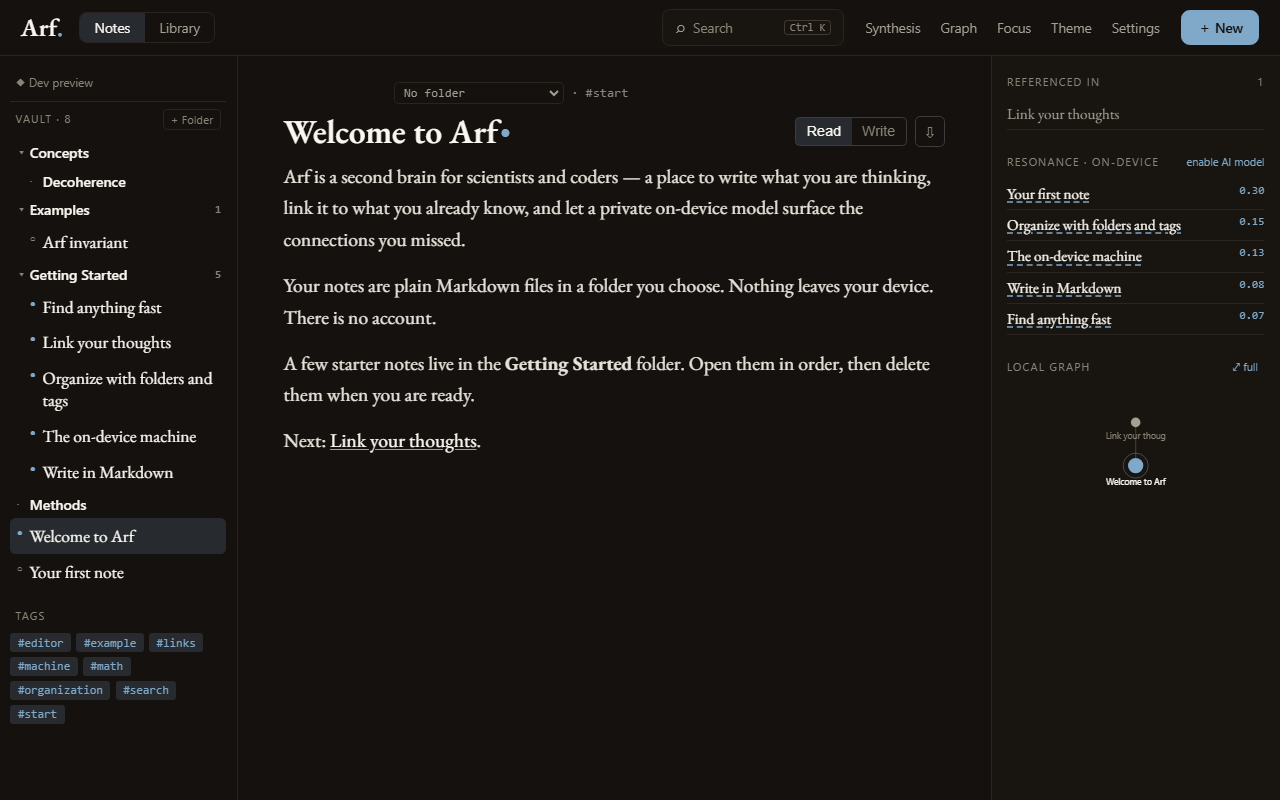
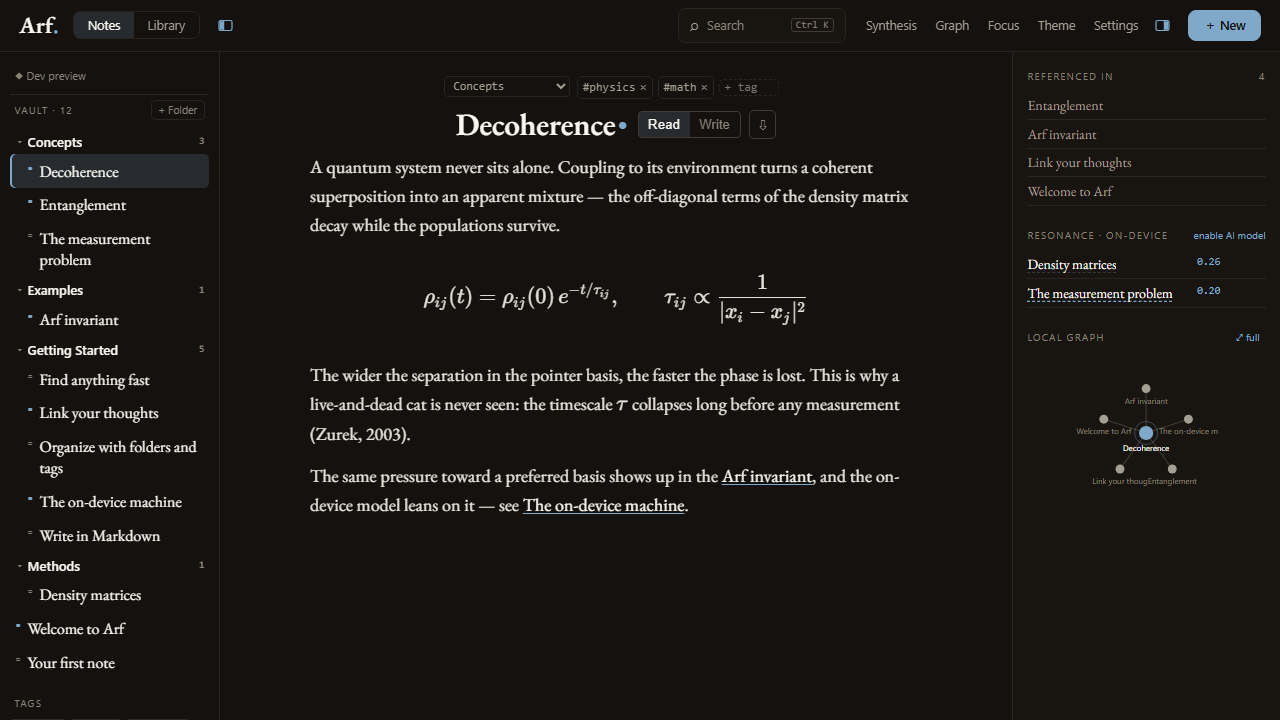
Release 1.8.0: resizable side panels, PDF autofit, panel toggles
- Side panels resize far wider: the fixed 460/480px caps are replaced by a
  window-relative limit, so a panel grows until the note column reaches a
  readable minimum and a PDF or reference can take most of the window. The
  rendered widths are clamped to the live window, so a width saved on a larger
  screen — or grown while the other panel was hidden — can never collapse the
  note column when the window shrinks or the panel is revealed.
- A PDF in the reader fits the panel width and re-fits as the panel is dragged
  (a debounced ResizeObserver; the scrollbar gutter is reserved so the fit can
  not self-trigger). Fit-width is the default; a manual zoom pins the scale
  until Fit is pressed, and a newly opened PDF starts fit-width.
- Show or hide either side panel from a top-bar button; the choice persists,
  and opening a document in the reader reveals the right panel on its own. The
  toggles are inert where they would have no visible effect (focus mode, narrow
  windows).
- Refresh the README hero screenshot for the new header, showing typeset math,
  wikilinks, a citation, backlinks, resonance, and the local graph.
- Add a unit test for the fit-width computation.

diff --git a/src/App.svelte b/src/App.svelte
@@ -19,7 +19,7 @@
 
   const IS_MAC = /Mac|iPhone|iPad|iPod/.test((navigator.platform || '') + ' ' + (navigator.userAgent || ''));
   const MOD = IS_MAC ? '⌘' : 'Ctrl';
-  const APP_VERSION = '1.7.0';   // keep in sync with package.json / tauri.conf.json / Cargo.toml
+  const APP_VERSION = '1.8.0';   // keep in sync with package.json / tauri.conf.json / Cargo.toml
 
   let notes = $state(loadNotes());
   let refs = $state(loadRefs());        // shared reference library (also used by [@citekey] citations)
@@ -56,6 +56,9 @@
   let reconnected = false;
   let leftW = $state(loadNum('arf-leftw', 220));   // resizable sidebar widths
   let rightW = $state(loadNum('arf-rightw', 268));
+  let leftHidden = $state(loadBool('arf-lefthidden', false));   // sidebars can be collapsed out of the way
+  let rightHidden = $state(loadBool('arf-righthidden', false));
+  let winW = $state(typeof window !== 'undefined' ? window.innerWidth : 1280);   // live viewport width (bound below)
   let dragging = null;             // 'l' | 'r' while resizing
   let settingsOpen = $state(false);
   let zoom = $state(loadNum('arf-zoom', 108)); // UI scale (%), a touch above 100 by default
@@ -659,6 +662,16 @@
   // embedded raster. Sits in the top-right corner of the page; nothing else is added to header/footer.
   const ARF_LOGO_SVG = '<svg xmlns="http://www.w3.org/2000/svg" viewBox="0 0 46 40" role="img" aria-label="Arf"><text x="0" y="33" font-family="Georgia,\'Times New Roman\',serif" font-size="40" font-weight="700" fill="#1a1a1a">A</text><circle cx="37" cy="30" r="4.6" fill="#2c4a6e"/></svg>';
   const ARF_LOGO_HTML = '<div class="arf-logo" aria-hidden="true">' + ARF_LOGO_SVG + '</div>';
+  // sidebar-toggle glyphs: a framed rectangle with the side rail marked; the rail is filled when the
+  // panel is open, hollow when it's hidden — so state reads at a glance without relying on colour.
+  const panelIcon = (side, open) => {
+    const x = side === 'l' ? 6 : 10, fx = side === 'l' ? 1.7 : 10.6;
+    return '<svg viewBox="0 0 16 14" width="15" height="13" fill="none" stroke="currentColor" stroke-width="1.3" stroke-linejoin="round" aria-hidden="true">'
+      + '<rect x="1" y="1.6" width="14" height="10.8" rx="1.8"/>'
+      + '<line x1="' + x + '" y1="1.6" x2="' + x + '" y2="12.4"/>'
+      + (open ? '<rect x="' + fx + '" y="2.3" width="3.7" height="9.4" rx="0.8" fill="currentColor" stroke="none"/>' : '')
+      + '</svg>';
+  };
   // export CSS, with an optional scope prefix so the same rules serve a standalone document (scope='')
   // and an in-page print container (scope='#arf-printroot ') without clobbering the app's own styles
   function buildExportCSS(scope) {
@@ -1078,20 +1091,38 @@
   function toggleTheme() { theme = theme === 'dark' ? 'light' : 'dark'; document.documentElement.setAttribute('data-theme', theme); try { localStorage.setItem('arf-theme', theme); } catch (e) {} }
 
   function loadNum(k, d) { try { const v = +localStorage.getItem(k); return v && v > 0 ? v : d; } catch (e) { return d; } }
+  function loadBool(k, d) { try { const v = localStorage.getItem(k); return v == null ? d : v === '1'; } catch (e) { return d; } }
+  // sidebar width caps are window-relative, not fixed: a panel can grow until the note column would
+  // fall below MIN_CENTER — so the reader/PDF pane can take most of the window when you want it to.
+  const MIN_CENTER = 300, MIN_LEFT = 170, MIN_RIGHT = 200;
+  function maxLeftW(wsW) { return Math.max(MIN_LEFT, wsW - MIN_CENTER - (rightHidden ? 0 : rightW)); }
+  function maxRightW(wsW) { return Math.max(MIN_RIGHT, wsW - MIN_CENTER - (leftHidden ? 0 : leftW)); }
+  // The *rendered* track widths, clamped to the live workspace so a width saved on a wider window — or
+  // grown while the other panel was hidden — can never collapse the note column when the window shrinks
+  // or that panel is revealed. Non-destructive: the stored leftW/rightW are untouched, so widening the
+  // window restores them. Layout px = viewport / zoom-factor (the resize handlers use the same relation).
+  const wsW = $derived((winW || 1280) / ((zoom || 100) / 100));
+  const appliedLeftW = $derived(leftHidden ? 0 : Math.max(MIN_LEFT, Math.min(maxLeftW(wsW), leftW)));
+  const appliedRightW = $derived(rightHidden ? 0 : Math.max(MIN_RIGHT, Math.min(maxRightW(wsW), rightW)));
   function startResize(which, e) { dragging = which; try { e.currentTarget.setPointerCapture(e.pointerId); } catch (x) {} e.preventDefault(); }
   function onResizeMove(e) {
     if (!dragging) return;
     const zf = (zoom || 100) / 100; // getBoundingClientRect/clientX are in zoomed px; store widths in layout px
     const ws = e.currentTarget.parentElement.getBoundingClientRect();
-    if (dragging === 'l') leftW = Math.max(170, Math.min(460, Math.round((e.clientX - ws.left) / zf)));
-    else rightW = Math.max(200, Math.min(480, Math.round((ws.right - e.clientX) / zf)));
+    const wsW = (ws.right - ws.left) / zf;
+    if (dragging === 'l') leftW = Math.max(MIN_LEFT, Math.min(maxLeftW(wsW), Math.round((e.clientX - ws.left) / zf)));
+    else rightW = Math.max(MIN_RIGHT, Math.min(maxRightW(wsW), Math.round((ws.right - e.clientX) / zf)));
   }
   function endResize() { if (!dragging) return; dragging = null; try { localStorage.setItem('arf-leftw', leftW); localStorage.setItem('arf-rightw', rightW); } catch (e) {} }
   function nudgeResize(which, e) {
     const step = e.key === 'ArrowLeft' ? -16 : e.key === 'ArrowRight' ? 16 : 0; if (!step) return; e.preventDefault();
-    if (which === 'l') leftW = Math.max(170, Math.min(460, leftW + step)); else rightW = Math.max(200, Math.min(480, rightW - step));
+    const ws = e.currentTarget.parentElement.getBoundingClientRect();
+    const zf = (zoom || 100) / 100, wsW = (ws.right - ws.left) / zf;
+    if (which === 'l') leftW = Math.max(MIN_LEFT, Math.min(maxLeftW(wsW), leftW + step)); else rightW = Math.max(MIN_RIGHT, Math.min(maxRightW(wsW), rightW - step));
     try { localStorage.setItem('arf-leftw', leftW); localStorage.setItem('arf-rightw', rightW); } catch (e2) {}
   }
+  function toggleLeftPanel() { leftHidden = !leftHidden; try { localStorage.setItem('arf-lefthidden', leftHidden ? '1' : '0'); } catch (e) {} }
+  function toggleRightPanel() { rightHidden = !rightHidden; try { localStorage.setItem('arf-righthidden', rightHidden ? '1' : '0'); } catch (e) {} }
   function setZoom(z) { zoom = Math.max(70, Math.min(160, z)); }
   function setTheme(tv) { theme = tv; document.documentElement.setAttribute('data-theme', tv); try { localStorage.setItem('arf-theme', tv); } catch (e) {} }
   $effect(() => { try { document.documentElement.style.zoom = String(zoom / 100); localStorage.setItem('arf-zoom', zoom); } catch (e) {} });
@@ -1246,7 +1277,7 @@
     } catch (e) {}
   }
   $effect(() => { const k = readerSource?.key; readerHls = k ? loadReaderHls(k) : []; });
-  function openReaderNote(id) { if (idx.byId[id] || notes.some((n) => n.id === id)) { reader = { kind: 'note', id }; view = 'notes'; } }
+  function openReaderNote(id) { if (idx.byId[id] || notes.some((n) => n.id === id)) { reader = { kind: 'note', id }; view = 'notes'; rightHidden = false; } }
   function closeReader() { reader = null; }
   function addHighlight(text) {
     const k = readerSource?.key, t = (text || '').trim(); if (!k || t.length < 3) return;
@@ -1272,7 +1303,7 @@
     if (att && att.path && vaultBackend) {
       const bytes = await vaultBackend.readBinary(att.path);
       if (bytes) {
-        view = 'notes';
+        view = 'notes'; rightHidden = false;
         if (att.kind === 'pdf') reader = { kind: 'pdf', key: 'ref:' + ref.id, title: ref.title || att.name, citekey: ref.citekey, bytes };
         else if (att.kind === 'html') reader = { kind: 'html', key: 'ref:' + ref.id, title: ref.title || att.name, citekey: ref.citekey, html: new TextDecoder().decode(bytes) };
         else if (att.kind === 'epub') reader = { kind: 'epub', key: 'ref:' + ref.id, title: ref.title || att.name, citekey: ref.citekey, bytes };
@@ -1280,7 +1311,7 @@
         return;
       }
     }
-    if (ref.abstract) { view = 'notes'; reader = { kind: 'text', key: 'refabs:' + ref.id, title: ref.title || 'Abstract', citekey: ref.citekey, body: ref.abstract }; return; }
+    if (ref.abstract) { view = 'notes'; rightHidden = false; reader = { kind: 'text', key: 'refabs:' + ref.id, title: ref.title || 'Abstract', citekey: ref.citekey, body: ref.abstract }; return; }
     notify('Nothing to read yet — attach a file to this reference or add an abstract.');
   }
   // --- note images: organized files in the vault (attachments/images/), data-URI on the web ---
@@ -1543,7 +1574,7 @@
 <!-- with the OS drag-drop handler off (tauri dragDropEnabled:false, required for HTML5 DnD on Windows),
      an unhandled file drop would otherwise make the webview navigate to file:// and replace the app.
      These bubble-phase guards neutralise any drop the row/editor handlers didn't already accept. -->
-<svelte:window onkeydown={onKey} ondragover={(e) => e.preventDefault()} ondrop={(e) => e.preventDefault()} />
+<svelte:window onkeydown={onKey} bind:innerWidth={winW} ondragover={(e) => e.preventDefault()} ondrop={(e) => e.preventDefault()} />
 
 {#if needVault}
   <div class="welcome">
@@ -1568,6 +1599,9 @@
       <button class:on={view === 'notes'} onclick={() => (view = 'notes')}>Notes</button>
       <button class:on={view === 'library'} onclick={() => (view = 'library')}>Library</button>
     </div>
+    {#if view === 'notes' && !focus}
+      <button class="tbtn iconbtn" class:on={!leftHidden} aria-pressed={!leftHidden} title={leftHidden ? 'Show the notes sidebar' : 'Hide the notes sidebar'} aria-label="Toggle notes sidebar" onclick={toggleLeftPanel}>{@html panelIcon('l', !leftHidden)}</button>
+    {/if}
     <span class="sp"></span>
     <button class="searchpill" onclick={() => { paletteOpen = true; query = ''; }}>
       <span class="mag">⌕</span><span class="lbl">Search</span><kbd>{MOD} K</kbd>
@@ -1578,6 +1612,9 @@
       <button class="tbtn" class:on={focus} onclick={() => (focus = !focus)}>Focus</button>
       <button class="tbtn" onclick={toggleTheme}>Theme</button>
       <button class="tbtn" onclick={() => (settingsOpen = true)}>Settings</button>
+      {#if view === 'notes' && !focus && winW > 900}
+        <button class="tbtn iconbtn" class:on={!rightHidden} aria-pressed={!rightHidden} title={rightHidden ? 'Show the right panel' : 'Hide the right panel'} aria-label="Toggle right panel" onclick={toggleRightPanel}>{@html panelIcon('r', !rightHidden)}</button>
+      {/if}
     </div>
     <button class="newbtn" onclick={create}>＋&nbsp;New</button>
   </header>
@@ -1602,11 +1639,11 @@
     <Library bind:this={libraryRef} {notes} {idx} onopen={open} bind:refs bind:libFolders jumpTo={refJump} onjumped={() => (refJump = null)} onrefsdelete={() => queueMicrotask(refsToVault)}
       hasVault={!!vaultBackend} onopenreader={openReferenceInReader} onattach={attachLocalFile} onfetchpdf={fetchPdfForRef} ondetach={detachFromRef} />
   {:else}
-    <div class="ws" style="--leftw:{leftW}px; --rightw:{rightW}px">
+    <div class="ws" class:lhide={leftHidden} class:rhide={rightHidden} style="--leftw:{appliedLeftW}px; --rightw:{appliedRightW}px">
       <button type="button" class="resizer rz-l" aria-label="Resize left sidebar"
-        style="left:{leftW - 5}px" onpointerdown={(e) => startResize('l', e)} onpointermove={onResizeMove} onpointerup={endResize} onpointercancel={endResize} onkeydown={(e) => nudgeResize('l', e)}></button>
+        style="left:{appliedLeftW - 5}px" onpointerdown={(e) => startResize('l', e)} onpointermove={onResizeMove} onpointerup={endResize} onpointercancel={endResize} onkeydown={(e) => nudgeResize('l', e)}></button>
       <button type="button" class="resizer rz-r" aria-label="Resize right sidebar"
-        style="right:{rightW - 5}px" onpointerdown={(e) => startResize('r', e)} onpointermove={onResizeMove} onpointerup={endResize} onpointercancel={endResize} onkeydown={(e) => nudgeResize('r', e)}></button>
+        style="right:{appliedRightW - 5}px" onpointerdown={(e) => startResize('r', e)} onpointermove={onResizeMove} onpointerup={endResize} onpointercancel={endResize} onkeydown={(e) => nudgeResize('r', e)}></button>
       <aside class="list" ondragover={(e) => { listAutoScroll(e); if (e.target === e.currentTarget) onDragOver(e, ''); }} ondrop={(e) => { stopAutoScroll(); if (e.target === e.currentTarget) onDrop(e, ''); }} role="group">
         <div class="vaultbar">
           {#if vaultBackend}

diff --git a/tests/unit/pdffit.test.js b/tests/unit/pdffit.test.js
@@ -1,0 +1,36 @@
+import { describe, it, expect } from 'vitest';
+import { computeFitScale } from '../../src/lib/pdffit.js';
+
+// A4 portrait at scale 1 is ~595 CSS px wide; the fit math is (clientWidth - gutter) / pageWidth.
+const A4 = 595;
+
+describe('computeFitScale', () => {
+  it('fits the page to the available width minus the gutter', () => {
+    // 625px panel − 30px gutter = 595 avail → exactly 1× for an A4 page
+    expect(computeFitScale(625, A4)).toBeCloseTo(1, 5);
+    // a wider panel scales the page up proportionally
+    expect(computeFitScale(1220, A4)).toBeCloseTo((1220 - 30) / A4, 5);
+  });
+
+  it('tracks the panel: a wider panel yields a larger scale than a narrower one', () => {
+    expect(computeFitScale(900, A4)).toBeGreaterThan(computeFitScale(500, A4));
+  });
+
+  it('clamps to the readable range [0.25, 3]', () => {
+    expect(computeFitScale(60, A4)).toBe(0.25);       // tiny panel floors at 0.25
+    expect(computeFitScale(6000, A4)).toBe(3);        // huge panel caps at 3
+  });
+
+  it('falls back to a sane width when clientWidth is 0/unknown', () => {
+    expect(computeFitScale(0, A4)).toBeCloseTo((620 - 30) / A4, 5);
+  });
+
+  it('returns the floor for a degenerate page width', () => {
+    expect(computeFitScale(800, 0)).toBe(0.25);
+    expect(computeFitScale(800, -1)).toBe(0.25);
+  });
+
+  it('respects custom gutter and clamp bounds', () => {
+    expect(computeFitScale(500, A4, 0, 0.1, 5)).toBeCloseTo(500 / A4, 5);
+  });
+});

diff --git a/src/lib/Reader.svelte b/src/lib/Reader.svelte
@@ -7,6 +7,7 @@
   //    highlights wrapped in <mark>. EPUB is unzipped to reflowable, selectable chapter HTML.
   // We own bodyEl imperatively (not a reactive {@html}) so highlight DOM mutation can't corrupt it.
   import { renderMarkdown } from './markdown.js';
+  import { computeFitScale } from './pdffit.js';
   import DOMPurify from 'dompurify';
 
   let { source = null, highlights = [], canQuote = true, onclose = null, onquote = null, onhighlight = null } = $props();
@@ -65,7 +66,8 @@
   let pdfStatus = $state('');     // '', 'loading', 'error'
   let pdfScale = $state(0);       // CSS-px scale (0 until fit-width is computed)
   let pdfPages = $state(0);
-  let _pdfDoc = null, _pdfjs = null, _viewerKey = '', _renderSeq = 0, _zoomTimer;
+  let fitMode = $state(true);     // true → pages track the panel width; a manual zoom turns it off
+  let _pdfDoc = null, _pdfjs = null, _viewerKey = '', _renderSeq = 0, _zoomTimer, _lastFitW = 0;
 
   $effect(() => {
     const s = source;
@@ -76,7 +78,7 @@
   });
   async function loadPdf(s) {
     teardownPdf();
-    pdfStatus = 'loading'; pdfScale = 0; pdfPages = 0;
+    pdfStatus = 'loading'; pdfScale = 0; pdfPages = 0; fitMode = true; _lastFitW = 0;
     if (bodyEl) bodyEl.innerHTML = '<p class="rmuted" style="padding:1rem 1.1rem">Opening the document…</p>';
     try {
       const pdfjs = await import('pdfjs-dist');
@@ -99,7 +101,9 @@
     const prevRatio = bodyEl.scrollHeight ? bodyEl.scrollTop / bodyEl.scrollHeight : 0;
     const page1 = await doc.getPage(1);
     const base = page1.getViewport({ scale: 1 });
-    if (!pdfScale) { const avail = (bodyEl.clientWidth || 620) - 30; pdfScale = Math.max(0.25, Math.min(3, avail / base.width)); }
+    // fit-width by default: recompute the scale from the panel's current width on every render so
+    // the pages track the reader as it's resized. A manual zoom (fitMode=false) keeps its scale.
+    if (fitMode || !pdfScale) { pdfScale = computeFitScale(bodyEl.clientWidth, base.width); _lastFitW = bodyEl.clientWidth; }
     const dpr = window.devicePixelRatio || 1;
     const wrap = document.createElement('div'); wrap.className = 'pdfpages';
     for (let p = 1; p <= doc.numPages; p++) {
@@ -131,10 +135,10 @@
     if (seq !== _renderSeq) return;
     bodyEl.scrollTop = prevRatio * bodyEl.scrollHeight;
   }
-  function applyZoom(next) { pdfScale = Math.max(0.3, Math.min(4, next)); clearTimeout(_zoomTimer); _zoomTimer = setTimeout(renderPdf, 140); }
+  function applyZoom(next) { fitMode = false; pdfScale = Math.max(0.3, Math.min(4, next)); clearTimeout(_zoomTimer); _zoomTimer = setTimeout(renderPdf, 140); }
   function zoomIn() { applyZoom((pdfScale || 1) * 1.15); }
   function zoomOut() { applyZoom((pdfScale || 1) / 1.15); }
-  function zoomFit() { pdfScale = 0; clearTimeout(_zoomTimer); _zoomTimer = setTimeout(renderPdf, 60); }
+  function zoomFit() { fitMode = true; clearTimeout(_zoomTimer); _zoomTimer = setTimeout(renderPdf, 60); }
   function onWheel(e) { if (source?.kind !== 'pdf' || !e.ctrlKey) return; e.preventDefault(); applyZoom((pdfScale || 1) * (e.deltaY < 0 ? 1.1 : 0.9)); }
 
   // highlight the text-layer spans covered by each stored snippet. Whitespace-collapsed char map so a
@@ -157,11 +161,22 @@
   }
   // re-apply highlights to a live PDF when the highlight set changes (e.g. just added one)
   $effect(() => { highlights; if (source?.kind === 'pdf' && bodyEl) bodyEl.querySelectorAll('.textLayer').forEach((tl) => applyPdfHighlights(tl, highlights)); });
-  // Ctrl-wheel zoom (non-passive so preventDefault works) + teardown on unmount
+  // Ctrl-wheel zoom (non-passive so preventDefault works), autofit-on-resize, + teardown on unmount
   $effect(() => {
     if (!bodyEl) return;
     bodyEl.addEventListener('wheel', onWheel, { passive: false });
-    return () => { bodyEl.removeEventListener('wheel', onWheel); teardownPdf(); clearTimeout(_zoomTimer); };
+    // re-fit the PDF when the panel width actually changes (resize / toggle / window). The scrollbar
+    // gutter is reserved in CSS so clientWidth doesn't shift when the scrollbar appears; the zero-width
+    // bail ignores a hidden panel (display:none → clientWidth 0), and the >=5px guard skips no-op fires.
+    let _rt;
+    const ro = new ResizeObserver(() => {
+      if (source?.kind !== 'pdf' || !fitMode || !_pdfDoc) return;
+      const w = bodyEl.clientWidth;
+      if (!w || Math.abs(w - _lastFitW) < 5) return;
+      clearTimeout(_rt); _rt = setTimeout(renderPdf, 120);
+    });
+    ro.observe(bodyEl);
+    return () => { bodyEl.removeEventListener('wheel', onWheel); ro.disconnect(); clearTimeout(_rt); teardownPdf(); clearTimeout(_zoomTimer); };
   });
 
   function currentSelection() {
@@ -185,7 +200,7 @@
     {#if isPdf && pdfStatus !== 'error'}
       <span class="zoom">
         <button class="rbtn zb" title="Zoom out" aria-label="Zoom out" onclick={zoomOut}>−</button>
-        <button class="rbtn zb" title="Fit width" onclick={zoomFit}>{pdfScale ? Math.round(pdfScale * 100) + '%' : 'Fit'}</button>
+        <button class="rbtn zb" class:on={fitMode} title="Fit to panel width" onclick={zoomFit}>{fitMode ? 'Fit' : Math.round(pdfScale * 100) + '%'}</button>
         <button class="rbtn zb" title="Zoom in" aria-label="Zoom in" onclick={zoomIn}>+</button>
       </span>
     {/if}
@@ -205,11 +220,12 @@
   .rsp { flex: 1; }
   .zoom { display: inline-flex; align-items: center; gap: .1rem; margin-right: .2rem; }
   .zoom .zb { min-width: 1.6rem; text-align: center; padding: .22rem .3rem; }
+  .zoom .zb.on { color: var(--accent); border-color: var(--accent-soft); background: var(--accent-soft); }
   .rbtn { font-family: var(--sans); font-size: 11.5px; color: var(--fg-muted); background: none; border: 1px solid transparent; border-radius: 5px; padding: .22rem .45rem; cursor: pointer; white-space: nowrap; transition: background .15s, color .15s, border-color .15s; }
   .rbtn:hover:not(:disabled) { background: var(--accent-soft); color: var(--fg-bright); border-color: var(--line-strong); }
   .rbtn:disabled { opacity: .4; cursor: default; }
   .rbtn.x { border: 0; font-size: 14px; }
-  .readerbody { flex: 1; min-height: 0; overflow-y: auto; padding: 1rem 1.1rem 3rem; font-family: var(--serif); font-size: 15.5px; line-height: 1.6; color: var(--fg); scroll-behavior: smooth; overscroll-behavior: contain; scrollbar-width: thin; }
+  .readerbody { flex: 1; min-height: 0; overflow-y: auto; scrollbar-gutter: stable; padding: 1rem 1.1rem 3rem; font-family: var(--serif); font-size: 15.5px; line-height: 1.6; color: var(--fg); scroll-behavior: smooth; overscroll-behavior: contain; scrollbar-width: thin; }
   /* PDF page view: darker gutter, centered pages, no serif column padding */
   .readerbody.pdfmode { padding: 14px 0 40px; background: color-mix(in srgb, var(--canvas) 30%, #000 6%); }
   .readerbody :global(.pdfpages) { display: flex; flex-direction: column; align-items: center; gap: 14px; }

diff --git a/src/lib/pdffit.js b/src/lib/pdffit.js
@@ -1,0 +1,8 @@
+// Fit-width scale for a PDF page in the side reader: the available client width (minus a small
+// gutter) divided by the page's natural width at scale 1, clamped to a readable range. Pure so the
+// autofit math is unit-testable without a DOM or pdf.js.
+export function computeFitScale(clientWidth, pageWidth, gutter = 30, min = 0.25, max = 3) {
+  if (!(pageWidth > 0)) return min;
+  const avail = (clientWidth || 620) - gutter;
+  return Math.max(min, Math.min(max, avail / pageWidth));
+}

diff --git a/src/appshell.css b/src/appshell.css
@@ -18,6 +18,8 @@
 .tbtn { font-family: var(--sans); font-size: 12.5px; color: var(--fg-muted); background: none; border: 0; border-radius: 6px; padding: .36rem .55rem; cursor: pointer; white-space: nowrap; }
 .tbtn:hover { background: var(--accent-soft); color: var(--fg-bright); }
 .tbtn.on { color: var(--accent); }
+.iconbtn { display: inline-flex; align-items: center; justify-content: center; padding: .34rem .44rem; }
+.iconbtn svg { display: block; }
 .iconbar { display: inline-flex; gap: 2px; border: 1px solid var(--line); border-radius: 8px; padding: 2px; }
 .ic { width: 31px; height: 28px; display: inline-flex; align-items: center; justify-content: center; font-size: 15px; color: var(--fg-muted); background: none; border: 0; border-radius: 6px; cursor: pointer; }
 .ic:hover { background: var(--accent-soft); color: var(--fg-bright); }
@@ -26,6 +28,9 @@
 .newbtn:hover { opacity: .9; }
 
 .ws { flex: 1; display: grid; grid-template-columns: var(--leftw, 220px) minmax(0, 1fr) var(--rightw, 268px); overflow: hidden; position: relative; }
+/* a hidden sidebar collapses its column (width var → 0) and drops its panel + resizer out of flow */
+.ws.lhide .list, .ws.lhide .rz-l { display: none; }
+.ws.rhide .rail, .ws.rhide .rz-r { display: none; }
 .resizer { position: absolute; top: 0; bottom: 0; width: 10px; cursor: col-resize; z-index: 6; background: none; border: 0; padding: 0; }
 .resizer::after { content: ''; position: absolute; top: 0; bottom: 0; left: 4px; width: 2px; background: transparent; transition: background .15s; }
 .resizer:hover::after, .resizer:focus-visible::after { background: var(--accent); }
@@ -317,7 +322,7 @@
 .exparea { width: 100%; min-height: 200px; font-family: var(--mono); font-size: 12px; line-height: 1.5; border: 1px solid var(--line); border-radius: 5px; background: var(--surface); color: var(--fg); padding: .7rem; white-space: pre; margin-top: .6rem; }
 .expsel { font-family: var(--sans); font-size: 13px; padding: .35rem; border: 1px solid var(--line-strong); border-radius: 4px; background: var(--surface); color: var(--fg-bright); }
 
-@media (max-width: 900px) { .ws { grid-template-columns: 190px minmax(0,1fr); } .rail { display: none; } .resizer { display: none; } .libview { grid-template-columns: 1fr; } }
+@media (max-width: 900px) { .ws { grid-template-columns: 190px minmax(0,1fr); } .ws.lhide { grid-template-columns: 0 minmax(0,1fr); } .rail { display: none; } .resizer { display: none; } .libview { grid-template-columns: 1fr; } }
 
 /* ===== motion: subtle, uniform entrances + hover easing (design-token colors only) ===== */
 @keyframes arf-fade { from { opacity: 0; } to { opacity: 1; } }

diff --git a/CHANGELOG.md b/CHANGELOG.md
@@ -6,6 +6,15 @@ All notable changes to Arf are recorded here. The format follows
 below matches a `v*` git tag and a GitHub Release; the release notes are generated
 from the matching section of this file.
 
+## [1.8.0] - 2026-07-10
+
+### Added
+- **Show or hide either side panel.** A button in the top bar collapses the notes sidebar, and another collapses the right panel (backlinks, Resonance, and the local graph — or the reader when a document is open). Each choice is remembered between sessions, and opening something in the reader brings the right panel back on its own.
+
+### Changed
+- **The side panels resize much wider.** The old fixed width limit is gone. A panel now grows until the note column reaches a readable minimum, so a PDF or a reference can take most of the window when you want to read it. The note column never collapses: a width saved on a larger window, or set while the other panel was hidden, is reined back within the current window when the window shrinks or the panel returns.
+- **A PDF fits the reader's width as you resize it.** The page rescales to the panel on every drag and stays fit-width by default. A manual zoom (− / +, Ctrl-scroll, or the percentage) pins the scale until you press Fit again; a newly opened PDF starts fit-width.
+
 ## [1.7.0] - 2026-07-10
 
 ### Added